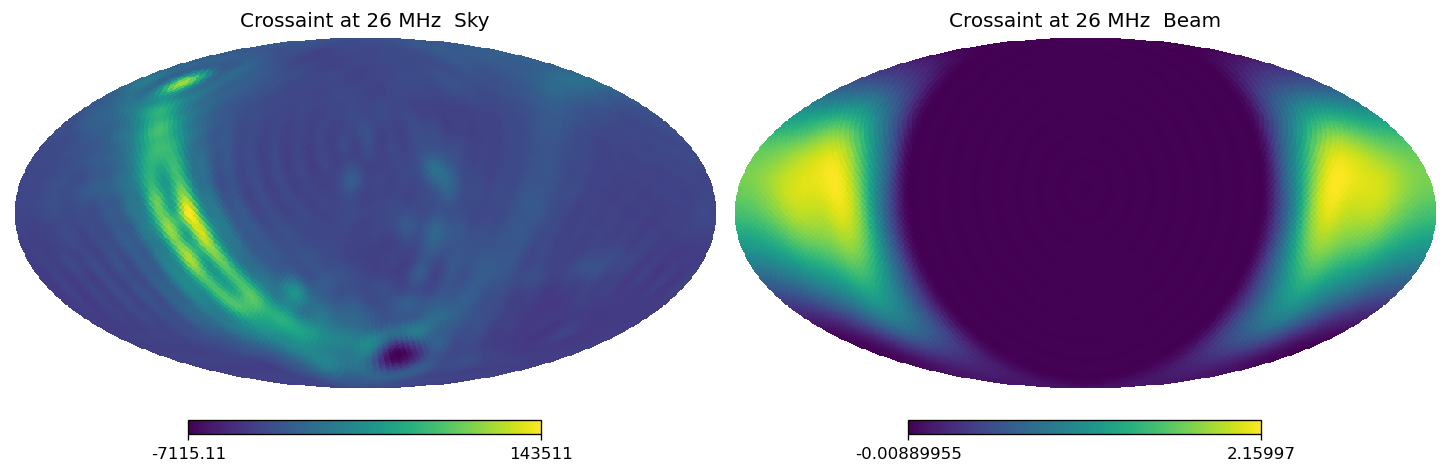
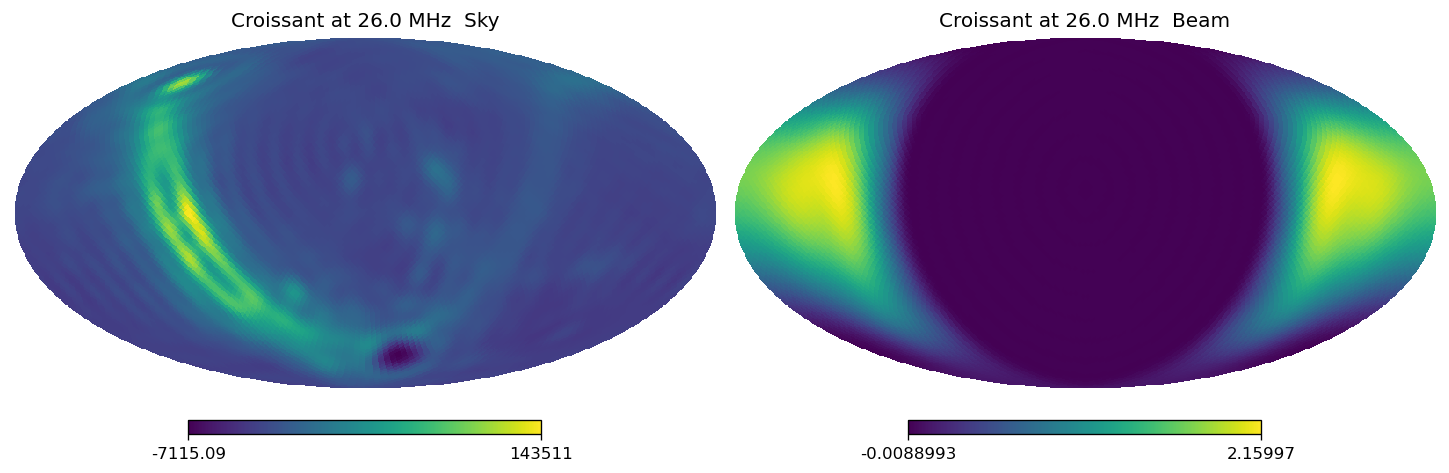
update CroSim to use multipair CroV5

diff --git a/simulation/driver/run_Cro_sim.py b/simulation/driver/run_Cro_sim.py
@@ -10,6 +10,8 @@ if __name__ == "__main__":
     from    sim_driver import SimEngine, requires_numpy_wrapper
     from    yaml.loader import SafeLoader
     from    lusee.frequencies import canonical_frequencies, frequency_indices_from_config
+    import jax
+    jax.config.update("jax_enable_x64", True)
 
 #######################
 class SimDriver(dict):